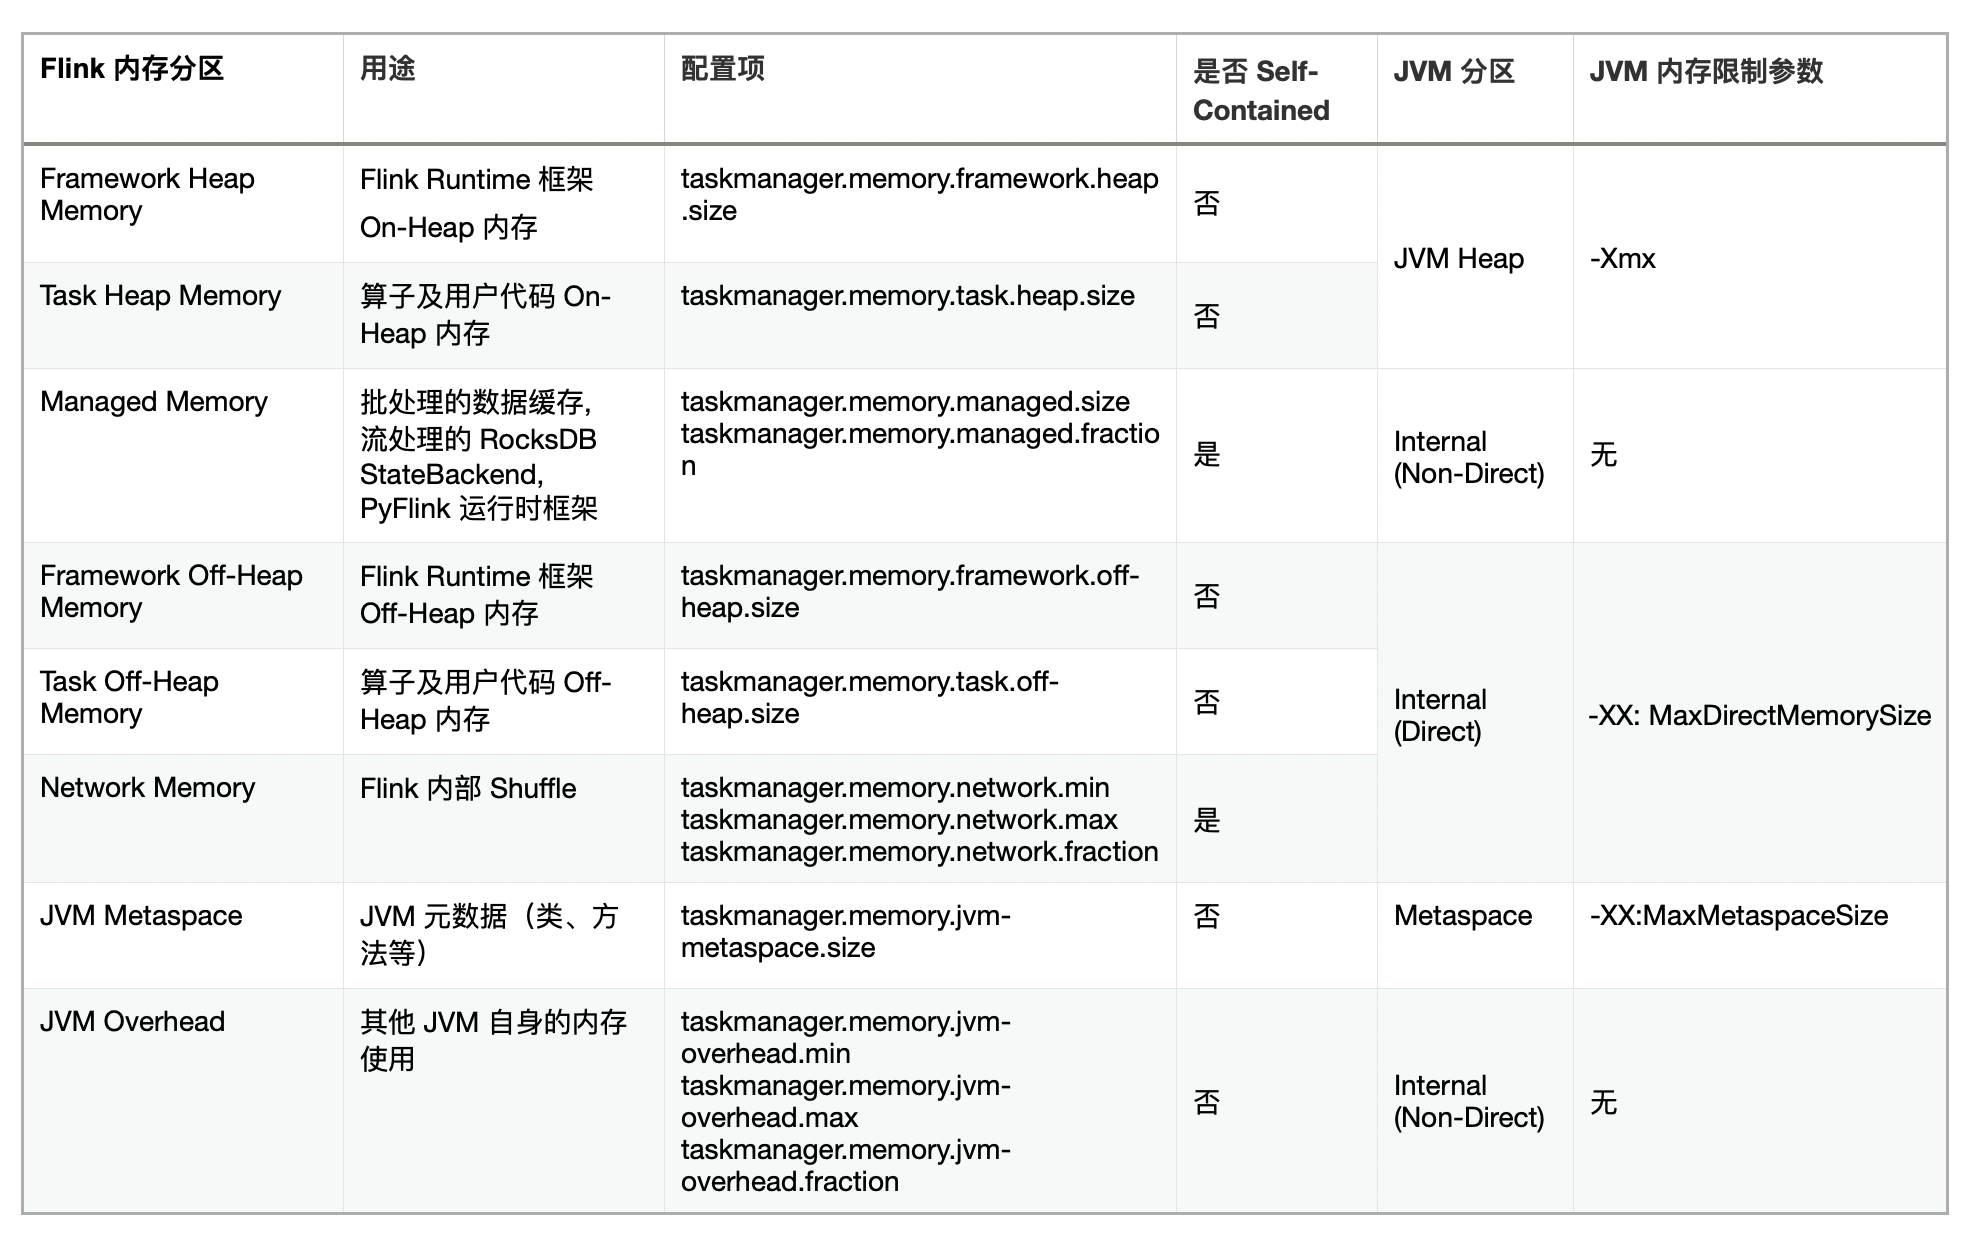
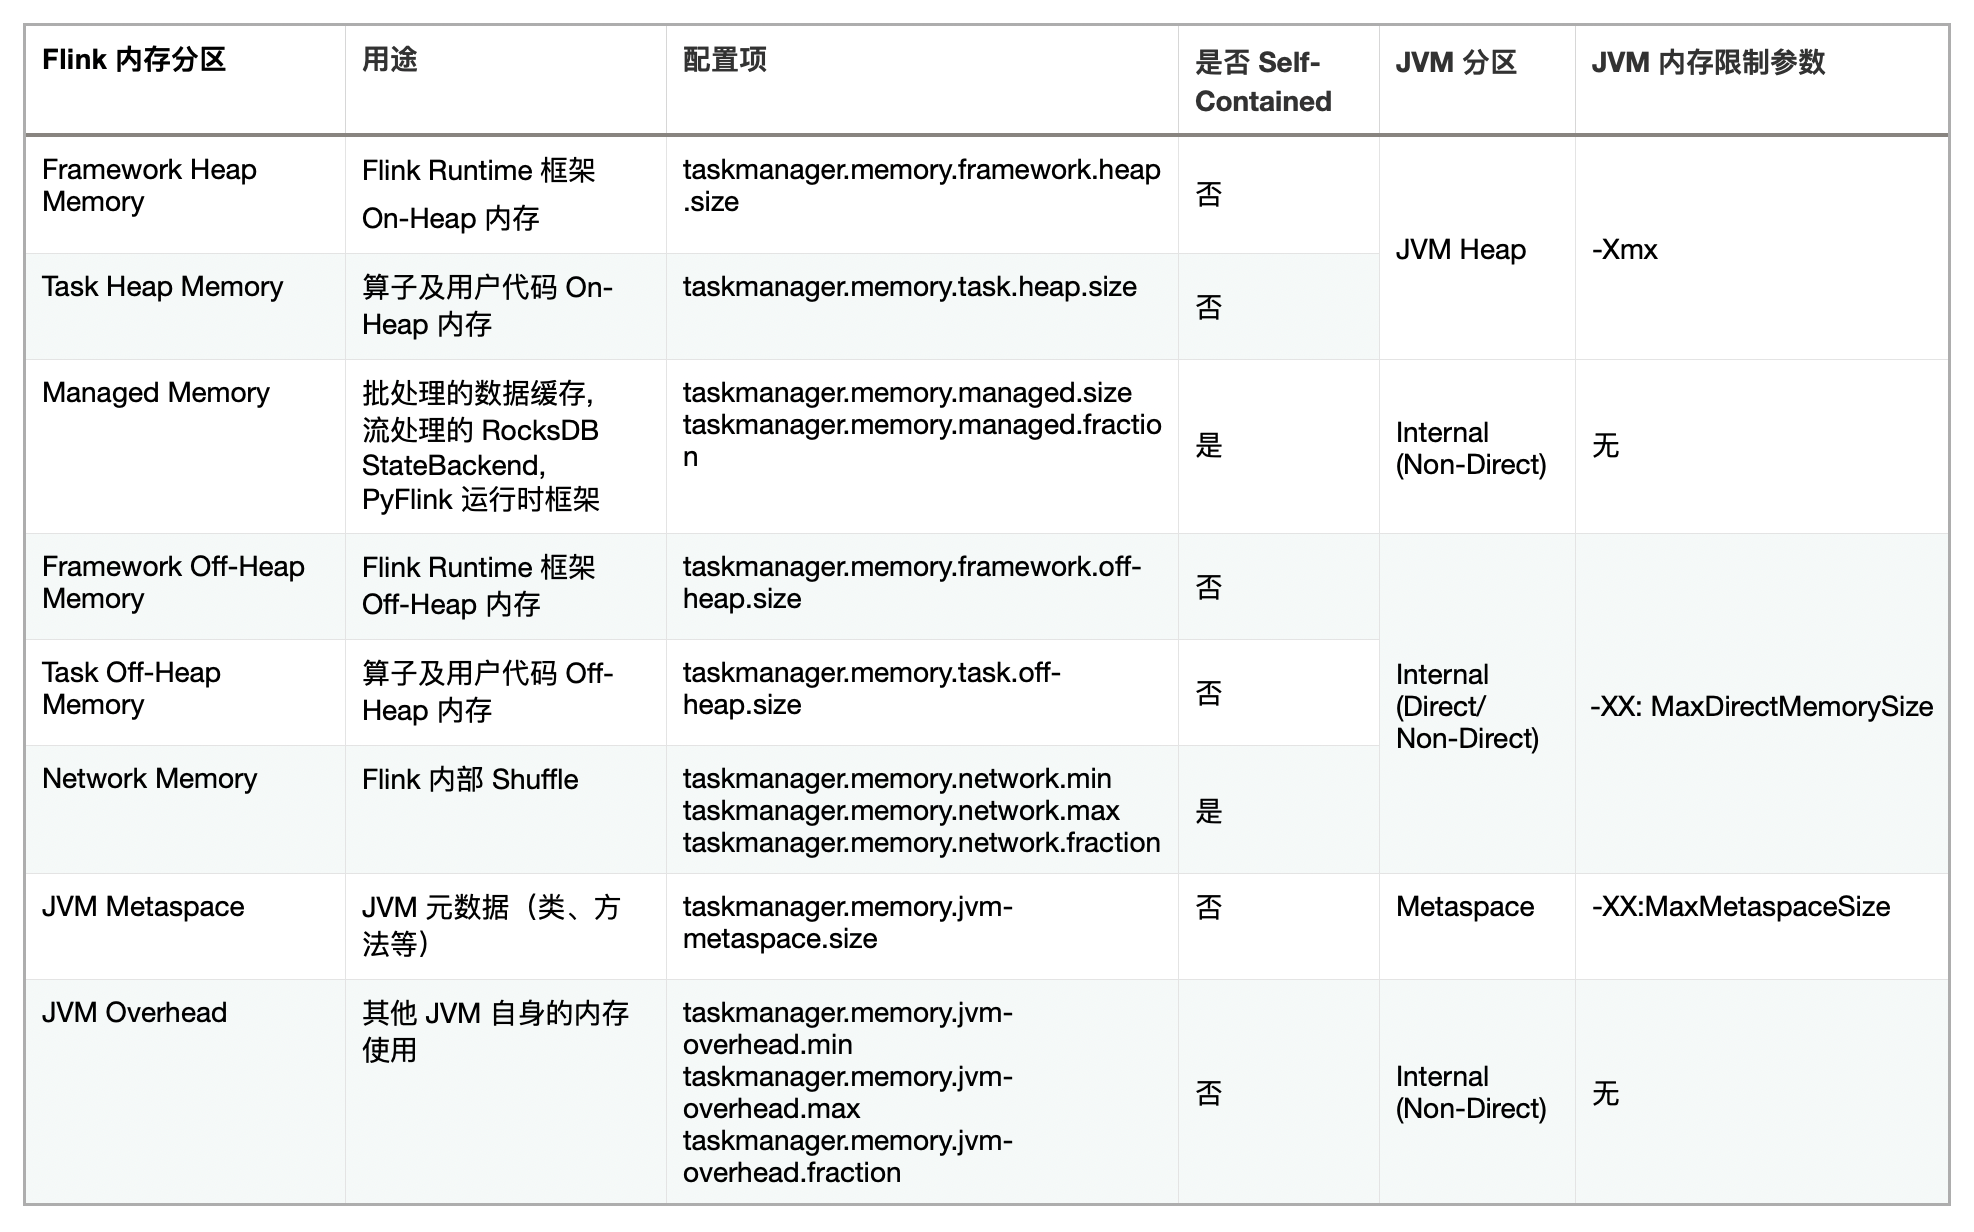
Site updated: 2021-01-04 22:12:49

diff --git a/2021/01/02/详解-Flink-容器化环境下的-OOM-Killed/index.html b/2021/01/02/详解-Flink-容器化环境下的-OOM-Killed/index.html
@@ -92,21 +92,21 @@
 
 
 
-<meta name="description" content="在生产环境中，Flink 通常在会部署在 YARN 或 k8s 等资源管理系统之上，进程会以容器化（YARN 容器或 docker 容器）的方式运行，其资源会受到资源管理系统的严格限制。另一方面，Flink 运行在 JVM 之上，而 JVM 与容器化环境并不是特别适配，尤其 JVM 复杂且可控性较弱的内存模型，容易导致进程使用资源超标而被 kill 掉，造成 Flink 应用的不稳定甚至不可用。">
+<meta name="description" content="在生产环境中，Flink 通常会部署在 YARN 或 k8s 等资源管理系统之上，进程会以容器化（YARN 容器或 docker 等容器）的方式运行，其资源会受到资源管理系统的严格限制。另一方面，Flink 运行在 JVM 之上，而 JVM 与容器化环境并不是特别适配，尤其 JVM 复杂且可控性较弱的内存模型，容易导致进程因使用资源超标而被 kill 掉，造成 Flink 应用的不稳定甚至不可用。">
 <meta property="og:type" content="article">
 <meta property="og:title" content="详解 Flink 容器化环境下的 OOM Killed">
 <meta property="og:url" content="https://link3280.github.io/2021/01/02/详解-Flink-容器化环境下的-OOM-Killed/index.html">
 <meta property="og:site_name" content="时间与精神的小屋">
-<meta property="og:description" content="在生产环境中，Flink 通常在会部署在 YARN 或 k8s 等资源管理系统之上，进程会以容器化（YARN 容器或 docker 容器）的方式运行，其资源会受到资源管理系统的严格限制。另一方面，Flink 运行在 JVM 之上，而 JVM 与容器化环境并不是特别适配，尤其 JVM 复杂且可控性较弱的内存模型，容易导致进程使用资源超标而被 kill 掉，造成 Flink 应用的不稳定甚至不可用。">
+<meta property="og:description" content="在生产环境中，Flink 通常会部署在 YARN 或 k8s 等资源管理系统之上，进程会以容器化（YARN 容器或 docker 等容器）的方式运行，其资源会受到资源管理系统的严格限制。另一方面，Flink 运行在 JVM 之上，而 JVM 与容器化环境并不是特别适配，尤其 JVM 复杂且可控性较弱的内存模型，容易导致进程因使用资源超标而被 kill 掉，造成 Flink 应用的不稳定甚至不可用。">
 <meta property="og:image" content="https://link3280.github.io/img/flink-oom-killed/img1.jvm-memory-overview.jpg">
 <meta property="og:image" content="https://link3280.github.io/img/flink-oom-killed/img2.flink-mem-model.png">
 <meta property="og:image" content="https://link3280.github.io/img/flink-oom-killed/img3.flink-mem-partitions-upper-limit.png">
 <meta property="og:image" content="https://link3280.github.io/img/flink-oom-killed/img4.pmap-thread-arena.png">
 <meta property="og:image" content="https://link3280.github.io/img/flink-oom-killed/img5.jdk8-member-name-table-leak.png">
-<meta property="og:updated_time" content="2021-01-03T10:32:12.231Z">
+<meta property="og:updated_time" content="2021-01-04T14:09:28.241Z">
 <meta name="twitter:card" content="summary">
 <meta name="twitter:title" content="详解 Flink 容器化环境下的 OOM Killed">
-<meta name="twitter:description" content="在生产环境中，Flink 通常在会部署在 YARN 或 k8s 等资源管理系统之上，进程会以容器化（YARN 容器或 docker 容器）的方式运行，其资源会受到资源管理系统的严格限制。另一方面，Flink 运行在 JVM 之上，而 JVM 与容器化环境并不是特别适配，尤其 JVM 复杂且可控性较弱的内存模型，容易导致进程使用资源超标而被 kill 掉，造成 Flink 应用的不稳定甚至不可用。">
+<meta name="twitter:description" content="在生产环境中，Flink 通常会部署在 YARN 或 k8s 等资源管理系统之上，进程会以容器化（YARN 容器或 docker 等容器）的方式运行，其资源会受到资源管理系统的严格限制。另一方面，Flink 运行在 JVM 之上，而 JVM 与容器化环境并不是特别适配，尤其 JVM 复杂且可控性较弱的内存模型，容易导致进程因使用资源超标而被 kill 掉，造成 Flink 应用的不稳定甚至不可用。">
 <meta name="twitter:image" content="https://link3280.github.io/img/flink-oom-killed/img1.jvm-memory-overview.jpg">
 
 
@@ -377,11 +377,11 @@
       
 
       
-        <p>在生产环境中，Flink 通常在会部署在 YARN 或 k8s 等资源管理系统之上，进程会以容器化（YARN 容器或 docker 容器）的方式运行，其资源会受到资源管理系统的严格限制。另一方面，Flink 运行在 JVM 之上，而 JVM 与容器化环境并不是特别适配，尤其 JVM 复杂且可控性较弱的内存模型，容易导致进程使用资源超标而被 kill 掉，造成 Flink 应用的不稳定甚至不可用。</p>
+        <p>在生产环境中，Flink 通常会部署在 YARN 或 k8s 等资源管理系统之上，进程会以容器化（YARN 容器或 docker 等容器）的方式运行，其资源会受到资源管理系统的严格限制。另一方面，Flink 运行在 JVM 之上，而 JVM 与容器化环境并不是特别适配，尤其 JVM 复杂且可控性较弱的内存模型，容易导致进程因使用资源超标而被 kill 掉，造成 Flink 应用的不稳定甚至不可用。</p>
 <a id="more"></a>
 <p>针对这个问题，Flink 在 1.10 版本对内存管理模块进行了重构，设计了全新的内存参数。在大多数场景下 Flink 的内存模型和默认已经足够好用，可以帮用户屏蔽进程背后的复杂内存结构，然而一旦出现内存问题，问题的排查和修复都需要比较多的领域知识，通常令普通用户望而却步。</p>
 <p>为此，本文将解析 JVM 和 Flink 的内存模型，并总结在工作中遇到和在社区交流中了解到的造成 Flink 内存使用超出容器限制的常见原因。由于 Flink 内存使用与用户代码、部署环境、各种依赖版本等因素都有紧密关系，本文主要讨论 on YARN 部署、Oracle JDK/OpenJDK 8、Flink 1.10+ 的情况。此外，特别感谢 @宋辛童（Flink 1.10+ 新内存架构的主要作者）在社区的答疑，令笔者受益匪浅。</p>
-<h1 id="JVM-内存分区"><a href="#JVM-内存分区" class="headerlink" title="JVM 内存分区"></a>JVM 内存分区</h1><p>对于大多数 Java 用户而言，日常开发中只需要关注 JVM Heap 内存，其他的内存分区可以统称为 Off-Heap 内存，通常由 JVM 或第三方库使用。而对于 Flink 来说，内存超标问题通常来自 Off-Heap 内存，因此对 JVM 内存模型有更深入的理解是十分必要的。</p>
+<h1 id="JVM-内存分区"><a href="#JVM-内存分区" class="headerlink" title="JVM 内存分区"></a>JVM 内存分区</h1><p>对于大多数 Java 用户而言，日常开发中与 JVM Heap 打交道的频率远大于其他 JVM 内存分区，因此常把其他内存分区统称为 Off-Heap 内存。而对于 Flink 来说，内存超标问题通常来自 Off-Heap 内存，因此对 JVM 内存模型有更深入的理解是十分必要的。</p>
 <p>根据 JVM 8 Spec[1]，JVM 管理的内存分区如下图:</p>
 <center><p><img src="/img/flink-oom-killed/img1.jvm-memory-overview.jpg" alt="img1. JVM 8 内存模型" title="img1. JVM 8 内存模型"></p></center>
 
@@ -400,7 +400,7 @@
 <li>Unknown: 无法分类的内存。</li>
 </ul>
 <p>理想情况下，我们可以严格控制各分区内存的上限，来保证进程总体内存在容器限额之内。但是过于严格的管理会带来会有额外使用成本且缺乏灵活度，所以在实际中为了 JVM 只对其中几个暴露给用户使用的分区提供了硬性的上限，而其他分区则可以作为整体被视为 JVM 本身的内存消耗。</p>
-<p>具体可以用于限制分区内存的 JVM 参数如下表所示。</p>
+<p>具体可以用于限制分区内存的 JVM 参数如下表所示（注意，业界对于 JVM Native 内存并没有准确的定义，本文的 Native 内存指的是 Off-Heap 内存中非 Direct 的部分，与 Naive Non-Direct 可以互换）。</p>
 <table>
 <thead>
 <tr>
@@ -425,7 +425,7 @@
 </tr>
 <tr>
 <td>Internal(Direct)</td>
-<td>Native Direct 内存</td>
+<td>Direct 内存</td>
 <td>-XX: MaxDirectMemorySize</td>
 <td>通过 <code>java.nio.ByteBuffer#allocateDirect</code> 申请的内存，通常用于 IO 模块</td>
 </tr>
@@ -433,7 +433,7 @@
 <td>Internal(Non-Direct)</td>
 <td>Native 内存</td>
 <td>无</td>
-<td>JVM 本身使用、JNI 使用或通过 <code>sun.misc.Unsafe</code> 申请的内存</td>
+<td>JVM 本身使用、JNI 使用或通过 Java 非安全内部类 <code>sun.misc.Unsafe</code> 申请的内存</td>
 </tr>
 </tbody>
 </table>
@@ -451,7 +451,7 @@
 <ol>
 <li>若是 Flink 有硬限制的分区，Flink 会报该分区内存不足。否则进入下一步。</li>
 <li>若该分区属于 JVM 管理的分区，在其实际值增长导致 JVM 分区也内存耗尽时，JVM 会报其所属的 JVM 分区的 OOM （比如 <code>java.lang.OutOfMemoryError: Jave heap space</code>）。否则进入下一步。</li>
-<li>该分区内存持续溢出，最终导致进程总体内存超出容器内存限制，这时资源管理器（YARN/k8s 等）会 kill 掉进程。</li>
+<li>该分区内存持续溢出，最终导致进程总体内存超出容器内存限制。在开启严格资源控制的环境下，资源管理器（YARN/k8s 等）会 kill 掉该进程。</li>
 </ol>
 <p>为直观地展示了 Flink 各内存分区与 JVM 内存分区间的关系，笔者整理如下的内存映射表:</p>
 <center><p><img src="/img/flink-oom-killed/img3.flink-mem-partitions-upper-limit.png" alt="img3. Flink 分区及 JVM 分区内存限制关系" title="img3. Flink 分区及 JVM 分区内存限制关系"></p></center>
@@ -461,7 +461,7 @@
 <blockquote>
 <p>Although, native non-direct memory usage can be accounted for as a part of the framework off-heap memory or task off-heap memory, it will result in a higher JVM’s direct memory limit in this case.</p>
 </blockquote>
-<p>虽然 Native Non-Direct 的内存（比如 Managed Memory）严格来说属于 JVM Overhead，不会被 JVM <code>-XX:MaxDirectMemorySize</code> 参数所限制，但 Flink 还是将它算入 <code>MaxDirectMemorySize</code> 中。这部分预留的 Direct 内存配额不会被实际使用，所以可以留给没有上限 JVM Overhead 占用，达到为 Native Non-Direct 内存预留空间的效果。</p>
+<p>虽然 Task/Framework 的 Off-Heap 分区中可能含有 Native Non-Direct 内存，而这部分内存严格来说属于 JVM Overhead，不会被 JVM <code>-XX:MaxDirectMemorySize</code> 参数所限制，但 Flink 还是将它算入 <code>MaxDirectMemorySize</code> 中。这部分预留的 Direct 内存配额不会被实际使用，所以可以留给没有上限 JVM Overhead 占用，达到为 Native Non-Direct 内存预留空间的效果。</p>
 <h1 id="OOM-Killed-常见原因"><a href="#OOM-Killed-常见原因" class="headerlink" title="OOM Killed 常见原因"></a>OOM Killed 常见原因</h1><p>与上文分析一致，实践中导致 OOM Killed 的常见原因基本源于 Native 内存的泄漏或者过度使用。因为虚拟内存的 OOM Killed 通过资源管理器的配置很容易避免且通常不会有太大问题，所以下文只讨论物理内存的 OOM Killed。</p>
 <h2 id="RocksDB-Native-内存的不确定性"><a href="#RocksDB-Native-内存的不确定性" class="headerlink" title="RocksDB Native 内存的不确定性"></a>RocksDB Native 内存的不确定性</h2><p>众所周知，RocksDB 通过 JNI 直接申请 Native 内存，并不受 Flink 的管控，所以实际上 Flink 通过设置 RocksDB 的内存参数间接影响其内存使用。然而，目前 Flink 是通过估算得出这些参数，并不是非常精确的值，其中有以下的几个原因。</p>
 <p>首先是部分内存难以准确计算的问题。RocksDB 的内存占用有 4 个部分[6]:  </p>

diff --git a/index.html b/index.html
@@ -375,7 +375,7 @@
 
       
         
-          <p>在生产环境中，Flink 通常在会部署在 YARN 或 k8s 等资源管理系统之上，进程会以容器化（YARN 容器或 docker 容器）的方式运行，其资源会受到资源管理系统的严格限制。另一方面，Flink 运行在 JVM 之上，而 JVM 与容器化环境并不是特别适配，尤其 JVM 复杂且可控性较弱的内存模型，容易导致进程使用资源超标而被 kill 掉，造成 Flink 应用的不稳定甚至不可用。</p>
+          <p>在生产环境中，Flink 通常会部署在 YARN 或 k8s 等资源管理系统之上，进程会以容器化（YARN 容器或 docker 等容器）的方式运行，其资源会受到资源管理系统的严格限制。另一方面，Flink 运行在 JVM 之上，而 JVM 与容器化环境并不是特别适配，尤其 JVM 复杂且可控性较弱的内存模型，容易导致进程因使用资源超标而被 kill 掉，造成 Flink 应用的不稳定甚至不可用。</p>
           <!--noindex-->
           <div class="post-button text-center">
             <a class="btn" href="/2021/01/02/详解-Flink-容器化环境下的-OOM-Killed/#more" rel="contents">

diff --git a/css/main.css b/css/main.css
@@ -1695,7 +1695,7 @@ pre .javascript .function {
   width: 4px;
   height: 4px;
   border-radius: 50%;
-  background: #06426e;
+  background: #7affc6;
 }
 .links-of-blogroll {
   font-size: 13px;
